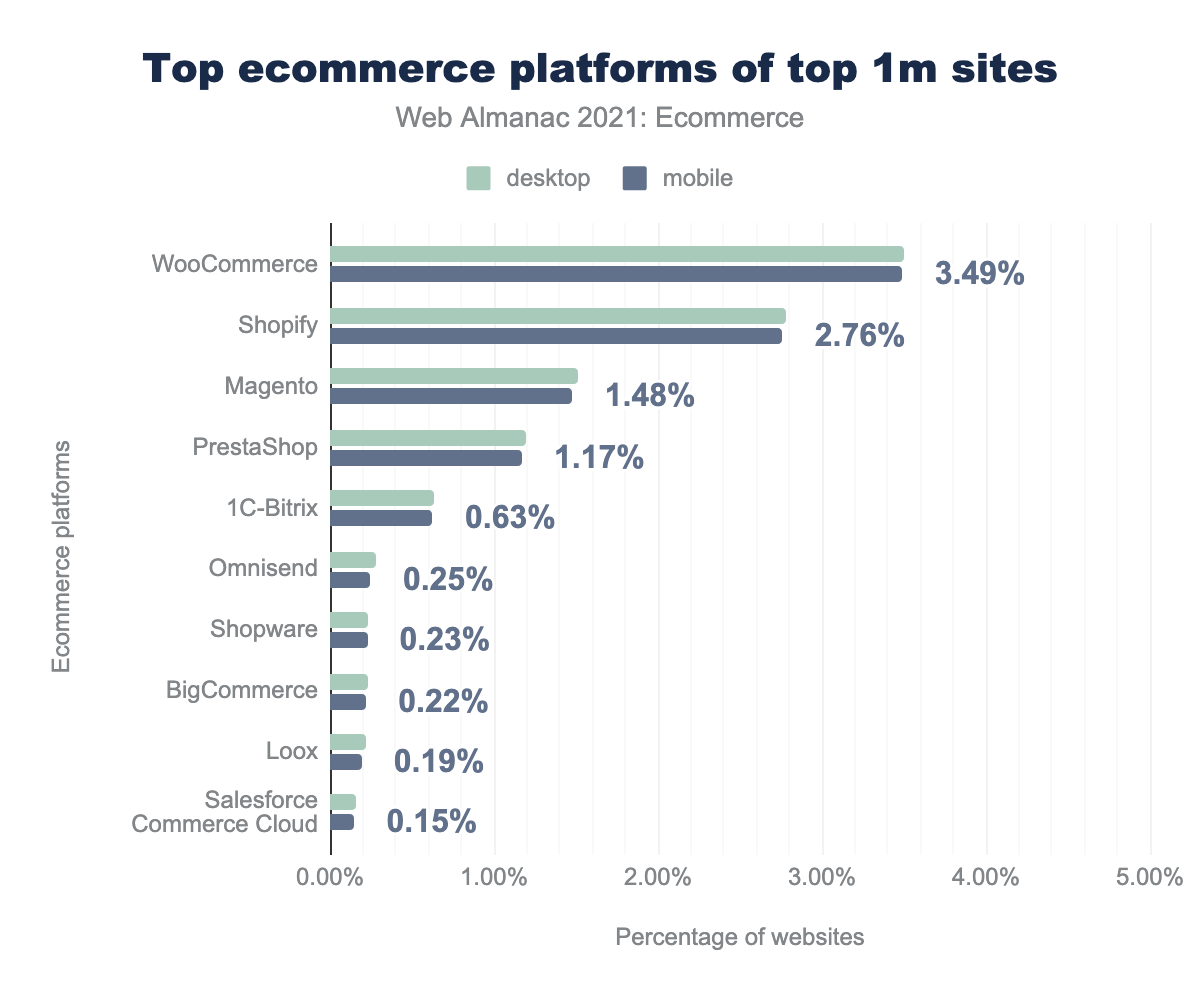
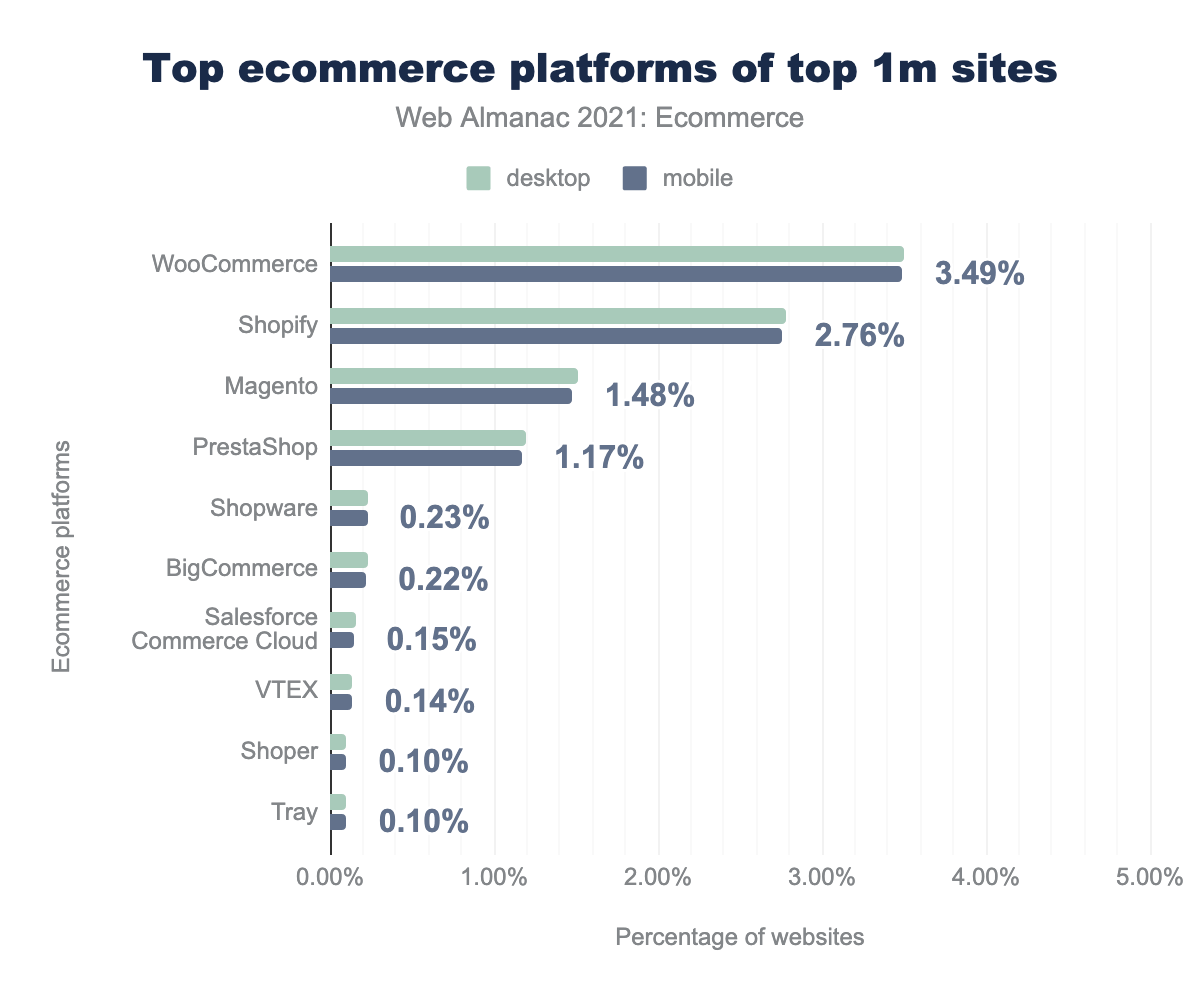
Fix ecommerce charts to ignore some non-ecommerce technologies (#2585)
* Fix ecommerce charts to ignore some non-ecommerce technologies

* More corrections

diff --git a/src/content/en/2021/ecommerce.md b/src/content/en/2021/ecommerce.md
@@ -129,8 +129,8 @@ Another way to look at the results is to consider the most popular platforms wit
 
 {{ figure_markup(
   image="top-ecommerce-platforms-top-1m-sites.png",
-  caption="Top ecommerce platforms of top 1m sites",
-  description="A bar chart showing in descending order the usage of ecommerce platforms within the top 1 million sites on mobile. 3.49% are WooCommerce, 2.76% are Shopify, 1.48% are Magento, 1.17% are PrestaShop, 0.23% are Shopware, 0.22% are BigCommerce and 0.15% are Salesforce Commerce Cloud",
+  caption="Top ecommerce platforms of 1 million sites",
+  description="A bar chart showing in descending order the usage of ecommerce platforms within the top 1 million sites. 3.49% on mobile are WooCommerce, 2.76% are Shopify, 1.48% are Magento, 1.17% are PrestaShop, 0.23% are Shopware, 0.22% are BigCommerce, 0.15% are Salesforce Commerce Cloud, 0.14% are VTEX, 0.10 are Shoper, and finally 0.10% are Tray. Desktop usage looks very similar.",
   chart_url="https://docs.google.com/spreadsheets/d/e/2PACX-1vT70VMNXb1X6Mnh69JGhQILb5ImqBkg6MtMpPiZnrNfYXQ7nngGWHO_kj87tAG5FkIyOvpNNYJmkLVY/pubchart?oid=86873602&format=interactive",
   sheets_gid="1491793974",
   sql_file="top_vendors_crux_rank.sql",
@@ -147,7 +147,7 @@ We also see Magento take the third spot over PrestaShop. Wix eCommerce and Squar
 {{ figure_markup(
   image="top-ecommerce-platforms-top-100k-sites.png",
   caption="Top ecommerce platforms of top 100,000 sites",
-  description="A bar chart showing in descending order the usage of ecommerce platforms within the top 100,000 sites on mobile. 1.21% are Magento, 0.88% are Shopify, 0.63% are Salesforce Commerce Cloud, 0.56% are WooCommerce, 0.33% are PrestaShop and 0.30% are SAP Commerce Cloud",
+  description="A bar chart showing in descending order the usage of ecommerce platforms within the top 100,000 sites. On mobile 1.21% are Magento, 0.88% are Shopify, 0.63% are Salesforce Commerce Cloud, 0.56% are WooCommerce, 0.33% are PrestaShop, 0.30% are SAP Commerce Cloud, 0.28% are VTEX, 0.10% are HCL Commerce, 0.08% are Shopware, and finally 0.06% are Amazon Webstore. Desktop usage looks very similar.",
   chart_url="https://docs.google.com/spreadsheets/d/e/2PACX-1vT70VMNXb1X6Mnh69JGhQILb5ImqBkg6MtMpPiZnrNfYXQ7nngGWHO_kj87tAG5FkIyOvpNNYJmkLVY/pubchart?oid=942112971&format=interactive",
   sheets_gid="1491793974",
   sql_file="top_vendors_crux_rank.sql",
@@ -162,7 +162,7 @@ When we consider the top 100,000 sites by CrUX rank the picture changes quite dr
 {{ figure_markup(
   image="top-ecommerce-platforms-top-10k-sites.png",
   caption="Top ecommerce platforms of top 10,000 sites",
-  description="A bar chart showing in descending order the usage of ecommerce platforms within the top 10,000 sites on mobile. 0.70% are SAP Commerce Cloud, 0.68% are Salesforce Commerce Cloud, 0.32% are Magento, 0.26% are HCL Commerce, 0.13% are Oracle Commerce, 0.12% are Shopify and 0.10% are WooCommerce",
+  description="A bar chart showing in descending order the usage of ecommerce platforms within the top 10,000 sites. On mobile 0.70% are SAP Commerce Cloud, 0.68% are Salesforce Commerce Cloud, 0.32% are Magento, 0.26% are HCL Commerce, 0.13% are Oracle Commerce, 0.12% are Shopify, 0.10% are WooCommerce, 0.10% are VTEX, 0.10% are Amazon Webstore, and 0.07% are SummerCart. Desktop usage looks very similar.",
   chart_url="https://docs.google.com/spreadsheets/d/e/2PACX-1vT70VMNXb1X6Mnh69JGhQILb5ImqBkg6MtMpPiZnrNfYXQ7nngGWHO_kj87tAG5FkIyOvpNNYJmkLVY/pubchart?oid=1147944186&format=interactive",
   sheets_gid="1491793974",
   sql_file="top_vendors_crux_rank.sql",
